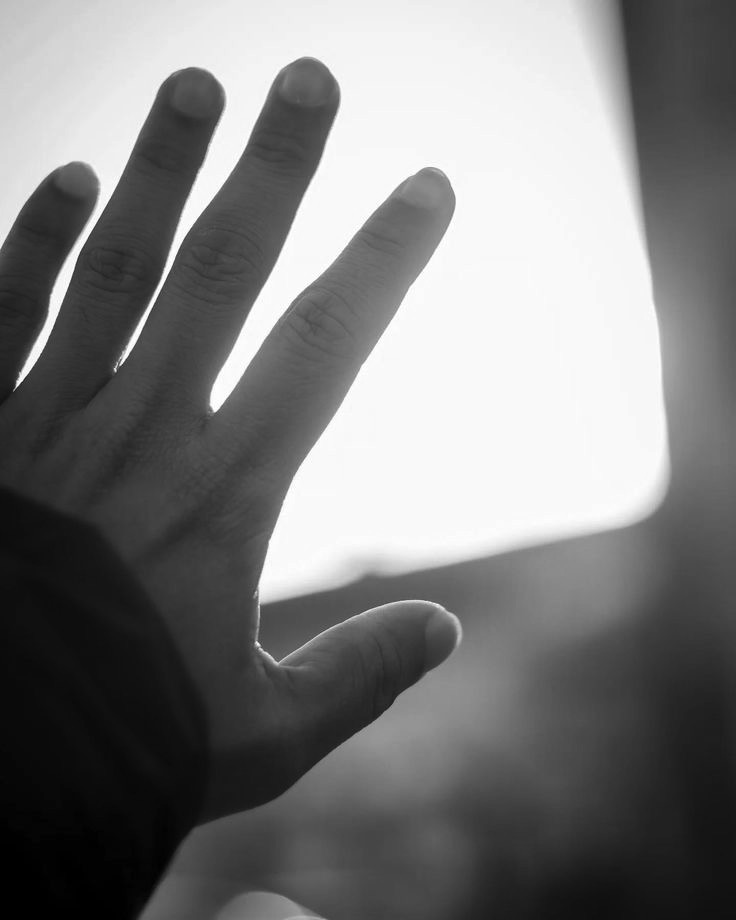
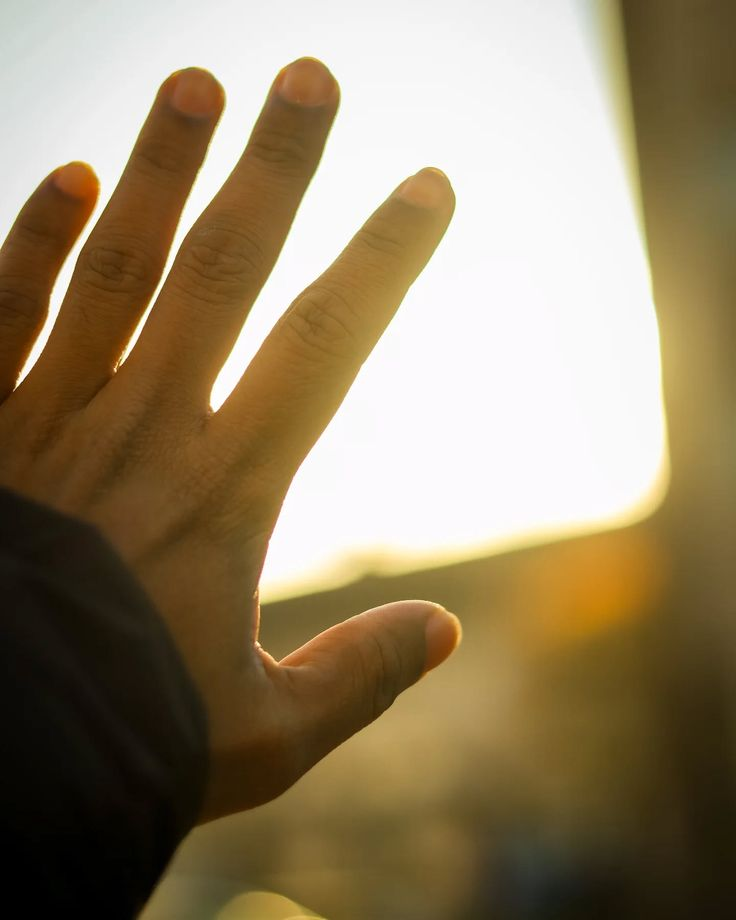
Show Seasons photos in original colour
Restore the colour originals of the Seasons board; Grey Spot stays
black and white.

diff --git a/README.md b/README.md
@@ -24,7 +24,7 @@ Pushing to `main` deploys the site to GitHub Pages via `.github/workflows/static
 
 ## Notes
 
-- Photos live in `assets/photos/` (`grey-spot-*` and `seasons-*`), taken from the Pinterest boards "Grey Spot" and "Seasons". The Seasons photos were autumn colour originals and have been converted to black and white.
+- Photos live in `assets/photos/` (`grey-spot-*` and `seasons-*`), taken from the Pinterest boards "Grey Spot" and "Seasons". Grey Spot is black and white; Seasons is shown in its original colour.
 - To add a photo, drop the file in `assets/photos/` and add a `<figure class="grid-photo">` in `index.html` with `data-collection` (`grey-spot` or `seasons`), `data-title`, and optionally `data-note` (caption shown in the lightbox).
 - The circles above the grid filter by collection; click the active one again to show everything.
 - The enquiry form is front-end only and does not send messages anywhere yet.
